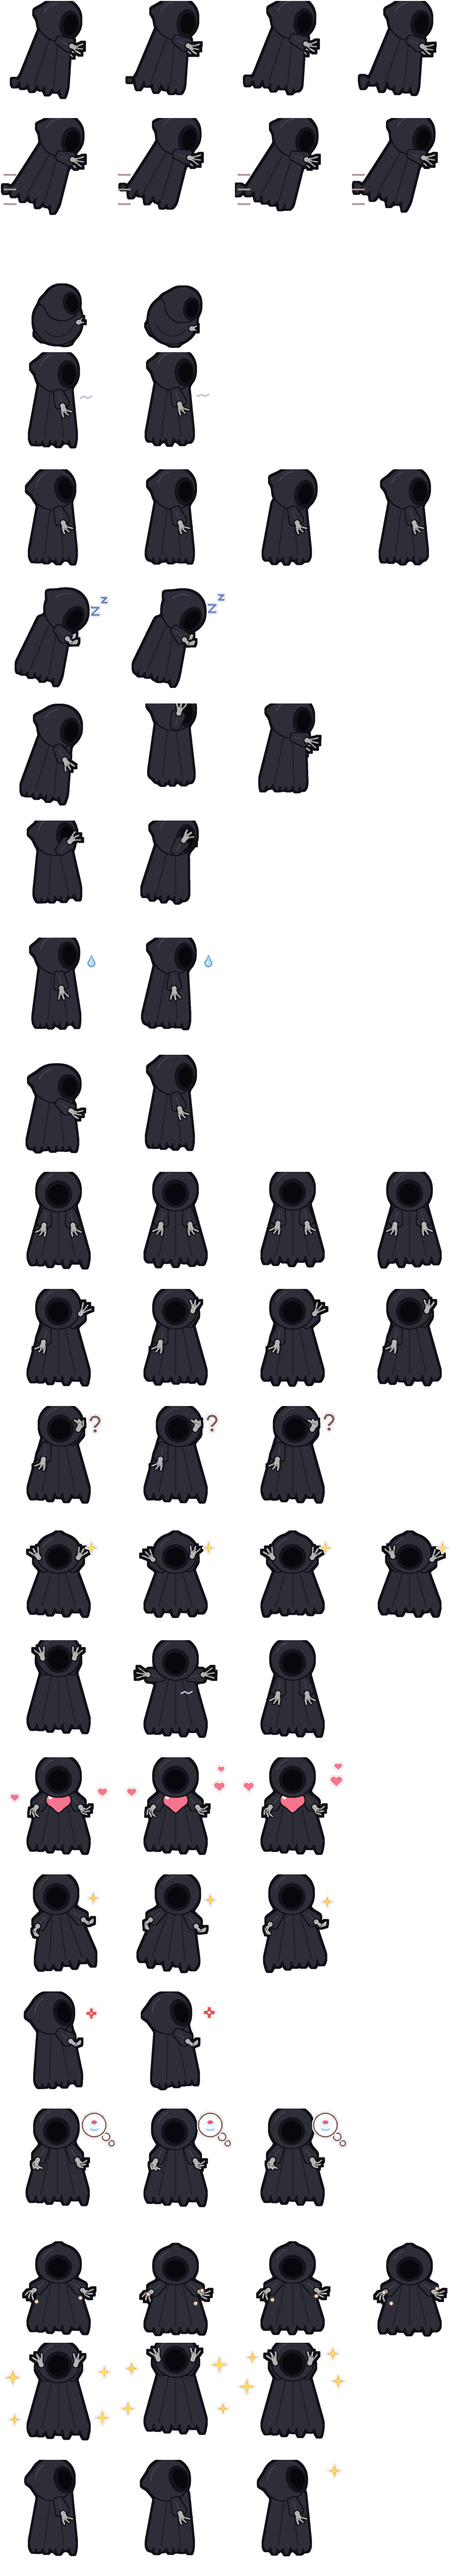
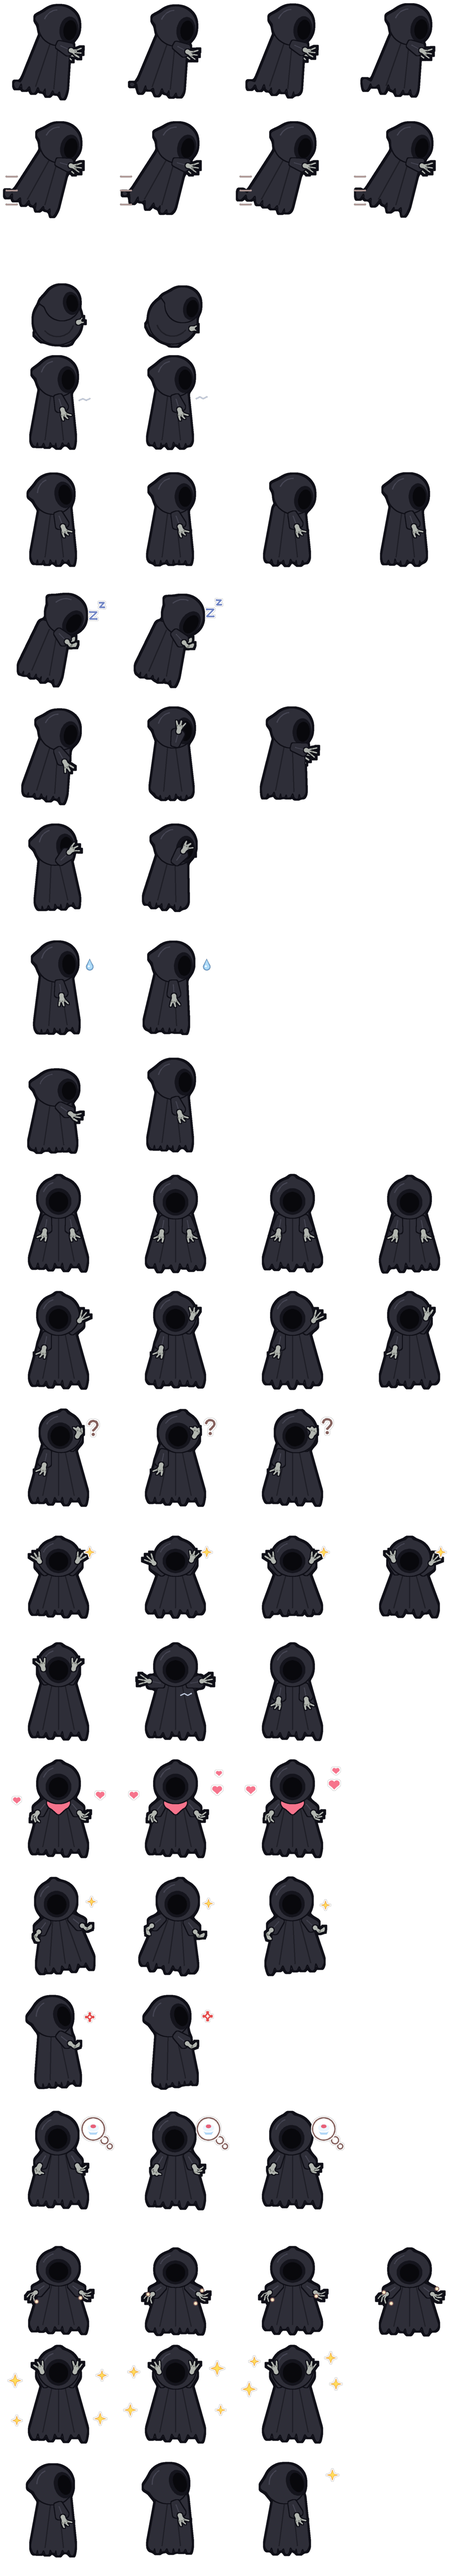
fix(dementor): keep the grown hood inside the frame instead of cutting its top
Big stages and the hop drew the hood (and raised hands) past the top of the
cell; the clipped shape was then nudged into the margin as a flat top. Redraw
the body a little lower until it clears the top, and draw the adult 5% smaller
so its hem still floats.

Claude-Session: https://claude.ai/code/session_01QTKFeh88WdMrEuDr7Y72ss

diff --git a/tools/draw_dementor.py b/tools/draw_dementor.py
@@ -118,7 +118,26 @@ def hood(view_, cx, cy, rot=0.0):
         return Part(shapes_, CLOAK, marks, outline=True, grow=0)
 
 
-def dementor(view_="side", *, dy=0.0, rot=0.0, hood_rot=0.0, flow=0.0, phase=0.0, arms=None, curl=(0.0, 0.0), open_=(True, True),
+TOP_ROOM = 3.0  # 칸 맨 위에서 이만큼(128 칸 px)은 비움 — 큰 단계의 후드·번쩍 든 손이 칸 위를 넘어 잘리지 않게
+SINK_STEP = 2.0  # 위가 닿으면 이만큼씩(그림 단위) 내려 다시 그림
+SINK_MAX = 12  # 내려 그리기 최대 횟수
+
+
+def dementor(view_="side", *, dy=0.0, **kw):
+    """디멘터 한 장 (_dementor). 몸(효과 빼고)이 칸 맨 위 TOP_ROOM 안까지 닿으면 닿지 않을 때까지 조금씩 내려 다시 그림 —
+    떠다니는 몸이라 아래(아랫단~바닥)에 틈이 있어서, 커진 단계·솟는 칸도 후드 꼭대기가 잘리지 않음."""
+    u = dp.out_u()
+    # 몸만 재 봄 (생각 풍선·z 같은 효과는 원래 칸 위쪽에 띄우는 것)
+    body_only = {**kw, "fx": ()}
+    for _ in range(SINK_MAX):
+        bbox = _dementor(view_, dy=dy, **body_only).getchannel("A").getbbox()
+        if bbox is None or bbox[1] >= TOP_ROOM * u:
+            break
+        dy += SINK_STEP
+    return _dementor(view_, dy=dy, **kw)
+
+
+def _dementor(view_="side", *, dy=0.0, rot=0.0, hood_rot=0.0, flow=0.0, phase=0.0, arms=None, curl=(0.0, 0.0), open_=(True, True),
              fx=(), held=(), whole=None, hem_up=0.0):
     """디멘터 한 장. view_: side (오른쪽을 봄) · front · dy: 위아래 (떠 있는 높이) · rot: 몸 기울기 (목 기준, 시계 방향) · hood_rot: 고개 ·
     flow: 아랫단이 뒤로 끌리는 정도 · phase: 아랫단 펄럭 · arms: [먼/왼, 가까운/오른] 소매 각도 (0 = 아래, 90 = 앞/오른쪽, 180 = 위) ·
@@ -342,7 +361,8 @@ DEMENTOR = Species(
     front_tail_color=CLOAK, tail_color=CLOAK, **dp.NO_COMMON_PARTS,
     specials=["lookup"], stage_size=dict.fromkeys(STAGES, 0.95), stripe=CLOAK_DARK,
     poses={k: (v if k == "roll" else dp._fit(v)) for k, v in DEMENTOR_POSES.items()}, outline=OUT,
-    stage_tweak={st: dict(fit=1.0, pale=0.0) for st in STAGES},
+    # 어른은 조금 줄여 그림 (5%) — 커진 후드 꼭대기를 칸 안에 두려고 내려 그리면 아랫단이 바닥에 닿았음
+    stage_tweak={st: dict(fit=0.95 if st == "adult" else 1.0, pale=0.0) for st in STAGES},
 )
 
 

diff --git a/tools/test_draw_dementor.py b/tools/test_draw_dementor.py
@@ -49,6 +49,19 @@ def test_every_frame_is_drawn_inside_the_cell_and_floats(out):
         assert_eat_has_no_bowl(out / "dementor" / f"sheet_{st}.png", dd.DEMENTOR)
 
 
+def test_the_hood_top_is_never_cut_off_as_it_grows(out):
+    # 사용자: 친구 디멘터가 어느 크기 이상 되니까 맨 위가 잘린다 — 큰 단계의 후드(와 솟을 때 번쩍 든 손)가 칸 위를 넘어 그릴 때 잘리고,
+    # 잘린 채로 1px 여백 안에 밀려 들어와 납작한 윗면이 됐었음. 모든 칸의 맨 윗줄은 위에서 2px 이상 떨어져야 함
+    for st in STAGES:
+        sheet = sheet_128(out / "dementor" / f"sheet_{st}.png")
+        for anim in names(dd.DEMENTOR):
+            for i in range(4):
+                a = np.asarray(cell(sheet, names(dd.DEMENTOR).index(anim), i).convert("RGBA"))[..., 3] > 100
+                rows = np.where(a.any(axis=1))[0]
+                if len(rows):
+                    assert rows[0] >= 2, f"{st} {anim} {i}: top row {rows[0]} ({int(a[rows[0]].sum())} px wide)"
+
+
 def test_manifest_is_a_flying_dementor(out):
     m = json.loads((out / "dementor" / "pet.json").read_text(encoding="utf-8"))
     assert m["name"] == "디멘터"
